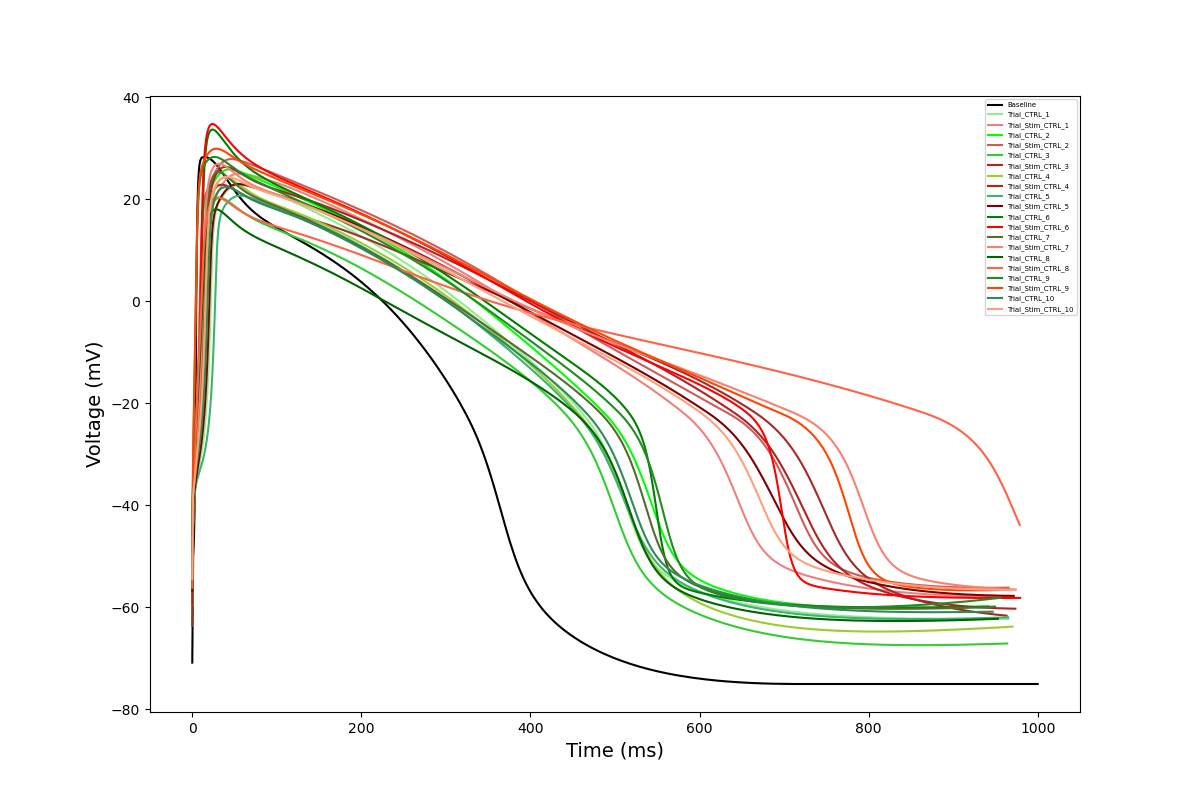
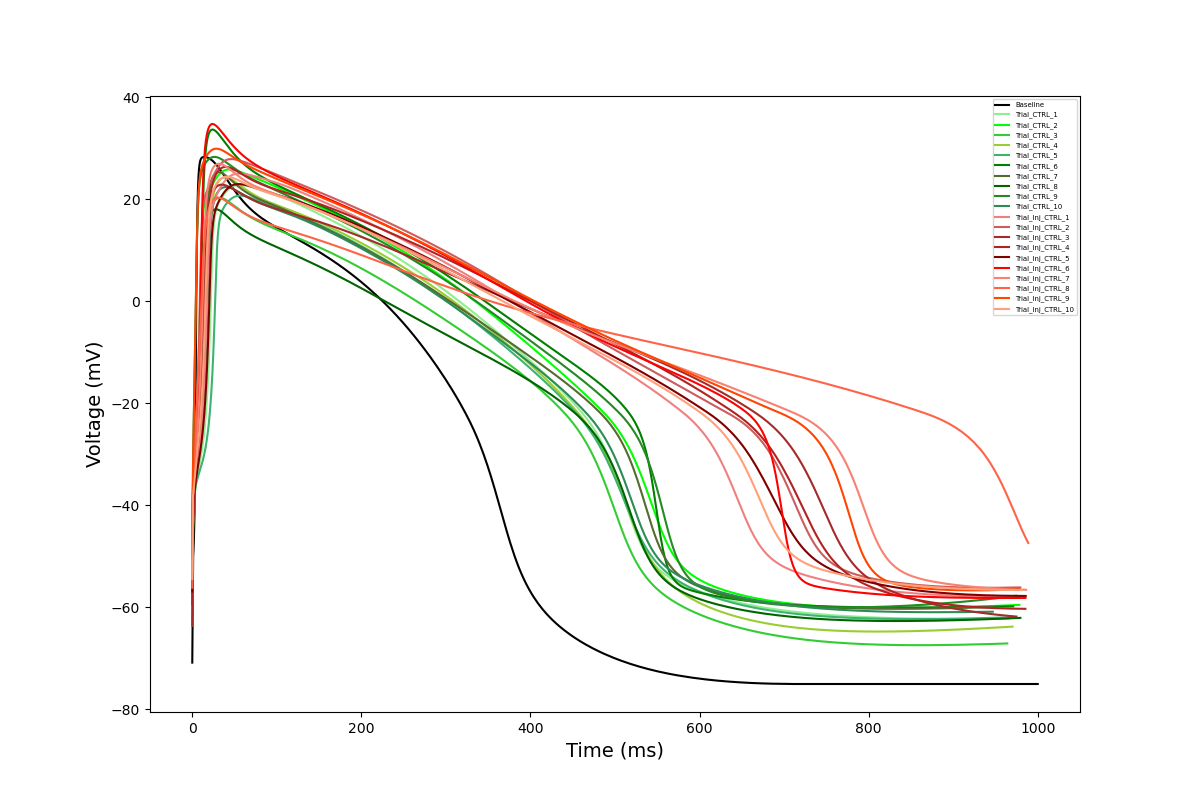
new

Changed region(s): [[0.8017, 0.125, 0.8942, 0.4062], [0.1542, 0.2188, 0.2775, 0.5625], [0.7708, 0.7188, 0.8633, 0.7812]]

diff --git a/stim.py b/stim.py
@@ -22,7 +22,10 @@ c_stim = ['lightcoral', 'indianred', 'brown', 'firebrick', 'maroon', 'red', 'sal
 for i in list(range(0,len(pop_HCM))):
     t_leak, v_leak, t_rrc, v_rrc = stim(pop_HCM[i])
     axs.plot(t_leak, v_leak, color=c_HCM[i], label = f'Trial_HCM_{i+1}')
-    axs.plot(t_rrc, v_rrc, color=c_stim[i], label = f'Trial_Stim_HCM_{i+1}')
+
+for i in list(range(0,len(pop_HCM))):
+    t_leak, v_leak, t_rrc, v_rrc = stim(pop_HCM[i])
+    axs.plot(t_rrc, v_rrc, color=c_stim[i], label = f'Trial_Inj_HCM_{i+1}')
 
 axs.legend(fontsize= 5, loc='upper right')
 axs.set_ylabel('Voltage (mV)', fontsize=14)
@@ -41,7 +44,10 @@ pop_CTRL = [ind_ctrl1, ind_ctrl2, ind_ctrl3, ind_ctrl4, ind_ctrl5, ind_ctrl6, in
 for i in list(range(0,len(pop_CTRL))):
     t_leak, v_leak, t_rrc, v_rrc = stim(pop_CTRL[i])
     axs.plot(t_leak, v_leak, color=c_CTRL[i], label = f'Trial_CTRL_{i+1}')
-    axs.plot(t_rrc, v_rrc, color=c_stim[i], label = f'Trial_Stim_CTRL_{i+1}')
+
+for i in list(range(0,len(pop_CTRL))):
+    t_leak, v_leak, t_rrc, v_rrc = stim(pop_CTRL[i])
+    axs.plot(t_rrc, v_rrc, color=c_stim[i], label = f'Trial_Inj_CTRL_{i+1}')
 
 axs.legend(fontsize= 5, loc='upper right')
 axs.set_ylabel('Voltage (mV)', fontsize=14)
